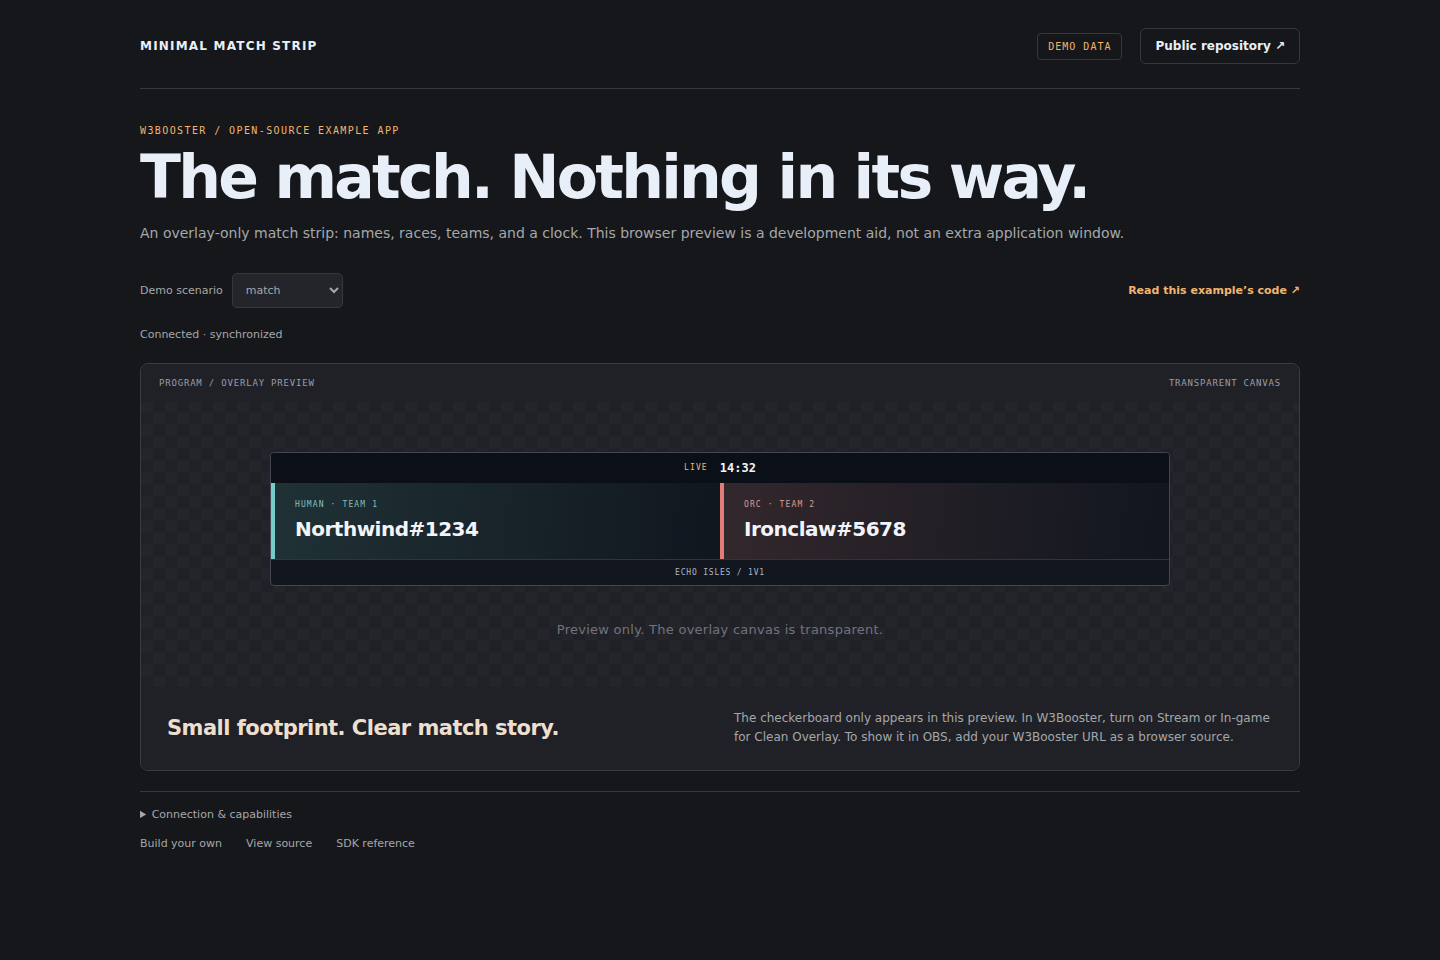
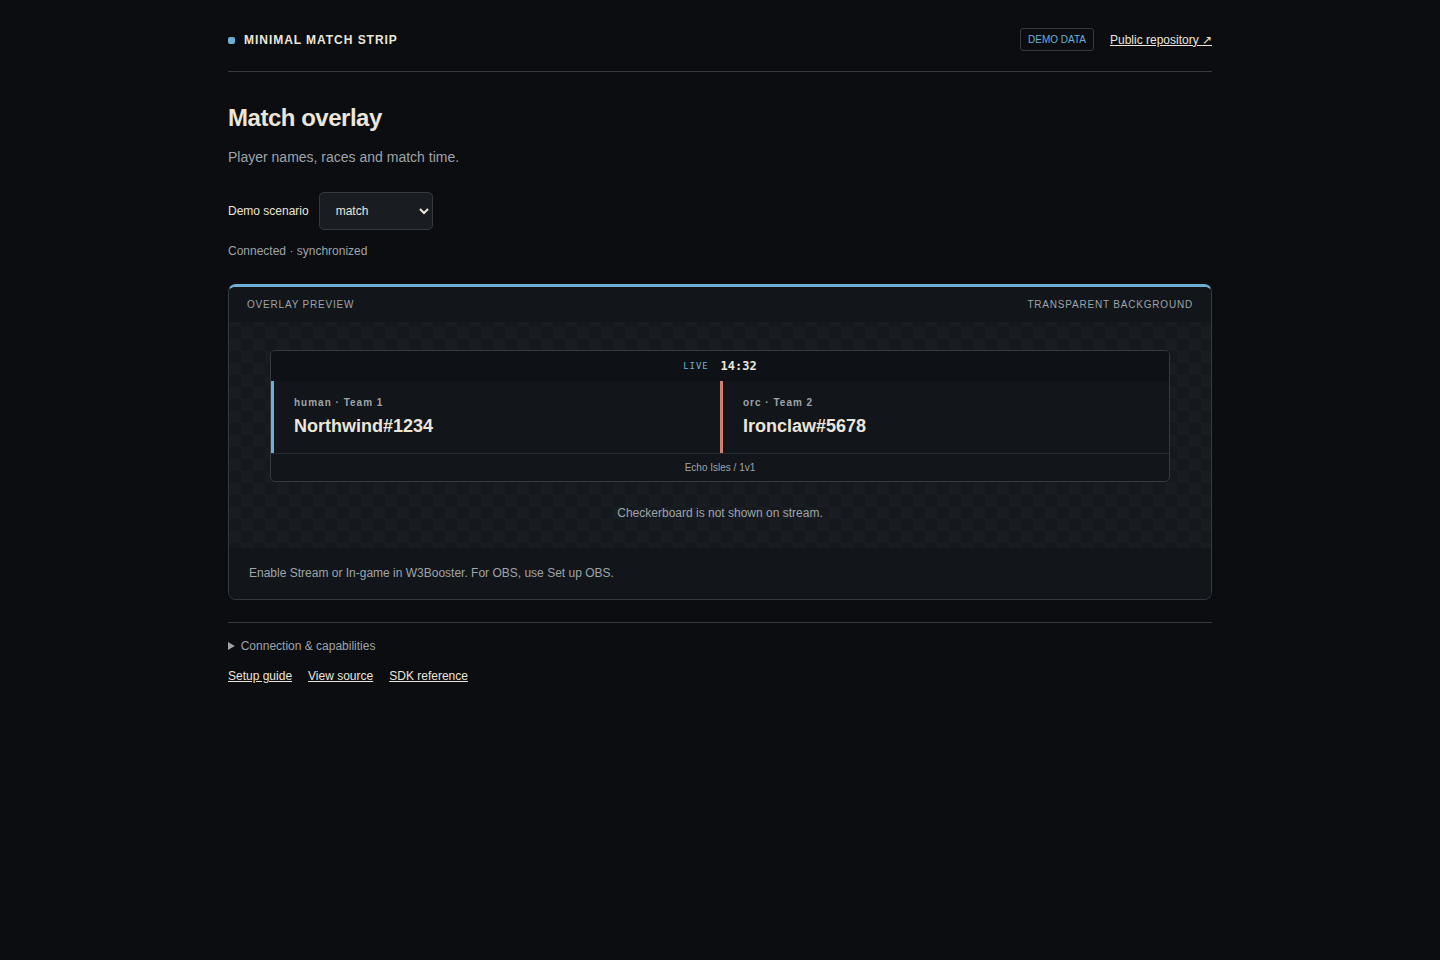
Use compact W3Booster styling and concise overlay preview

diff --git a/src/style.css b/src/style.css
@@ -1,34 +1,18 @@
-:root { color-scheme: dark; font-family: Inter, ui-sans-serif, system-ui, sans-serif; color: #e9eff8; background: #0b111c; font-synthesis: none; }
-:root.overlay-root { color-scheme:normal; }
-[hidden] { display:none!important; }
-.overlay[data-synchronized="false"] .content { visibility:hidden; }
-* { box-sizing: border-box; } body { --accent:#76cced; --muted:#9aaabd; --line:#2a3a50; --panel:#131e2e; margin:0; min-height:100vh; background:#0b111c; }
-button,input,select { font:inherit; } a { color:inherit; text-decoration:none; } a:hover { text-decoration:underline; } button:disabled { opacity:.45; cursor:not-allowed; }
-.shell { max-width:1240px; margin:auto; padding:28px 40px; }
-header { display:flex; align-items:center; justify-content:space-between; gap:20px; padding-bottom:24px; border-bottom:1px solid var(--line); }
-.brand { font-size:12px; font-weight:800; letter-spacing:.1em; } .header-actions { display:flex; align-items:center; gap:18px; }
-.badge { font:10px ui-monospace,monospace; letter-spacing:.1em; padding:7px 10px; color:var(--accent); border:1px solid var(--line); border-radius:4px; }
-.repository-link { font-size:12px; font-weight:650; padding:10px 14px; border:1px solid var(--line); border-radius:6px; }
-.intro { padding:36px 0 10px; } h1,h2,h3,p { margin-top:0; } h1 { margin:10px 0 14px; font-size:clamp(32px,4.7vw,60px); line-height:1.04; letter-spacing:-.045em; font-weight:750; } h2 { font-size:25px; letter-spacing:-.025em; } h3 { overflow-wrap:anywhere; }
-p { color:var(--muted); line-height:1.65; font-size:14px; } .eyebrow { font:10px ui-monospace,monospace; letter-spacing:.14em; color:var(--accent); text-transform:uppercase; }
-nav { display:flex; gap:8px; flex-wrap:wrap; margin:14px 0; } nav a,button { border:1px solid var(--line); background:var(--panel); border-radius:5px; padding:10px 14px; color:inherit; cursor:pointer; font-size:12px; } nav a[aria-current] { border-color:var(--accent); color:var(--accent); }
-button:hover:enabled { border-color:var(--accent); } input,select { background:var(--panel); color:inherit; border:1px solid var(--line); border-radius:5px; padding:9px; }
-.controls { display:flex; flex-wrap:wrap; gap:14px; align-items:center; padding:4px 0 8px; font-size:11px; color:var(--muted); } .controls label { display:flex; align-items:center; gap:9px; } .source-link { margin-left:auto; color:var(--accent); font-weight:650; }
-.notice { font-size:11px; margin:10px 0; } .notice:empty { display:none; } .content { min-height:220px; margin-top:18px; } .diagnostics { color:var(--muted); font-size:11px; padding:16px 0; margin-top:20px; border-top:1px solid var(--line); } summary { cursor:pointer; }
-pre { white-space:pre-wrap; overflow-wrap:anywhere; font:12px/1.7 ui-monospace,monospace; } footer { display:flex; gap:24px; flex-wrap:wrap; font-size:11px; color:var(--muted); }
-:focus-visible { outline:3px solid var(--accent); outline-offset:4px; }
-
-/* Clean Overlay: a broadcast strip on a clearly marked transparency canvas. */
-body[data-theme=broadcast] { --accent:#f2b56e; --muted:#a5a7aa; --line:#37383d; --panel:#24252a; background:#16171b; }
-.broadcast-studio { border:1px solid #3b3c43; border-radius:8px; overflow:hidden; } .studio-bar { display:flex; justify-content:space-between; gap:12px; padding:14px 18px; font:9px ui-monospace,monospace; letter-spacing:.09em; color:#9b9ca6; background:#202127; }
-.studio-stage { padding:50px 35px; min-height:260px; display:flex; flex-direction:column; align-items:center; justify-content:center; gap:36px; background:repeating-conic-gradient(#24252a 0 25%,#202126 0 50%) 0/24px 24px; } .stage-caption { color:#71737e; font-size:13px; letter-spacing:.02em; }
-.broadcast-strip { width:100%; max-width:900px; color:#f2f4f9; background:#10151fee; border:1px solid #444653; border-radius:4px; overflow:hidden; position:relative; padding-top:29px; }
-.broadcast-clock { position:absolute; top:0; left:0; right:0; display:flex; align-items:center; justify-content:center; gap:12px; background:#0b0f17; padding:8px; font:12px ui-monospace,monospace; } .broadcast-live { color:#efb876; font-size:8px; letter-spacing:.14em; }
-.broadcast-players { display:grid; grid-template-columns:repeat(auto-fit,minmax(180px,1fr)); } .broadcast-player { padding:18px 20px; border-left:4px solid #73cec9; background:linear-gradient(95deg,#29444599,transparent); display:flex; flex-direction:column; gap:8px; } .broadcast-player.side-1 { border-color:#e17c77; background:linear-gradient(95deg,#49333599,transparent); } .broadcast-player .eyebrow { color:#87bdbc; font-size:8px; } .broadcast-player.side-1 .eyebrow { color:#d49e9a; } .broadcast-player strong { font-size:20px; letter-spacing:-.025em; overflow-wrap:anywhere; }
-.broadcast-map { text-align:center; color:#adb5c3; border-top:1px solid #2d3542; padding:8px; font:8px ui-monospace,monospace; letter-spacing:.1em; text-transform:uppercase; }
-.studio-info { padding:22px 26px; background:#202127; display:grid; grid-template-columns:1fr 1fr; align-items:center; gap:28px; } .studio-info h2 { font-size:21px; margin:0; color:#eddfce; } .studio-info p { margin:0; font-size:12px; }
-html.overlay-root,body.overlay { background:transparent; min-height:0; } .overlay .shell { max-width:1000px; padding:12px; } .overlay header,.overlay .intro,.overlay nav,.overlay .controls,.overlay .diagnostics,.overlay footer,.overlay > .notice,.overlay .shell > .notice { display:none; } .overlay .content { margin:0; min-height:0; }
-@media (max-width:680px) {
-  .shell { padding:20px 16px; } header { align-items:flex-start; gap:12px; } .header-actions { gap:8px; flex-wrap:wrap; justify-content:flex-end; } .brand { max-width:140px; font-size:10px; line-height:1.5; } .repository-link { font-size:10px; padding:8px; }
-  .intro { padding-top:28px; } .source-link { margin-left:0; } .arena,.resource-grid,.settings-workbench { grid-template-columns:1fr; } .settings-preview-panel { border-left:0; border-top:1px solid #4c3864; } .settings-panel,.settings-preview-panel { padding:23px; } .economy-heading { align-items:flex-start; flex-direction:column; } .desk-topline,.desk-bottomline { padding:12px; gap:8px; flex-wrap:wrap; } .studio-stage { padding:30px 16px; } .studio-info { grid-template-columns:1fr; gap:12px; } .broadcast-player strong { font-size:18px; } .studio-bar { flex-wrap:wrap; }
-}
+body { --accent: #6fafd4; }
+.broadcast-studio { border: 1px solid var(--border); border-top: 3px solid var(--accent); border-radius: 8px; overflow: hidden; }
+.studio-bar { display: flex; justify-content: space-between; flex-wrap: wrap; gap: 12px; padding: 12px 18px; font-size: 10px; letter-spacing: .08em; color: var(--muted); background: var(--surface); }
+.studio-stage { padding: 28px; min-height: 220px; display: flex; flex-direction: column; align-items: center; justify-content: center; gap: 24px; background: repeating-conic-gradient(#191d22 0 25%,#15181c 0 50%) 0/24px 24px; }
+.stage-caption { color: var(--muted); font-size: 12px; }
+.broadcast-strip { width: 100%; max-width: 900px; color: var(--text); background: #121519f2; border: 1px solid var(--border); border-radius: 5px; overflow: hidden; position: relative; padding-top: 30px; }
+.broadcast-clock { position: absolute; top: 0; left: 0; right: 0; display: flex; justify-content: center; align-items: center; gap: 12px; background: #0e1115; padding: 8px; font: 12px ui-monospace,monospace; }
+.broadcast-live { color: var(--accent); font-size: 9px; letter-spacing: .1em; }
+.broadcast-players { display: grid; grid-template-columns: repeat(auto-fit,minmax(180px,1fr)); }
+.broadcast-player { padding: 16px 20px; border-left: 3px solid #6fafd4; display: flex; flex-direction: column; gap: 8px; }
+.broadcast-player.side-1 { border-color: #cf8073; }
+.broadcast-player .eyebrow { color: var(--muted); font-size: 10px; }
+.broadcast-player strong { font-size: 18px; overflow-wrap: anywhere; }
+.broadcast-map { text-align: center; color: var(--muted); border-top: 1px solid #272c32; padding: 8px; font-size: 10px; }
+.studio-info { padding: 16px 20px; background: var(--surface); }
+.studio-info p { margin: 0; font-size: 12px; }
+.overlay .shell { max-width: 1000px; }
+@media (max-width: 600px) { .studio-stage { padding: 18px 12px; } }

diff --git a/src/main.ts b/src/main.ts
@@ -1,3 +1,4 @@
+import './shell.css';
 import './style.css';
 import { classifyW3BoosterError } from '@w3booster/sdk';
 import { w3boosterApp } from './w3booster.generated';
@@ -9,7 +10,7 @@ document.body.dataset.application = w3boosterApp.clientId;
 // One repository, one app.
 const view = query.get('view') || 'application';
 const theme = 'broadcast';
-const presentation = { brand: 'MINIMAL MATCH STRIP', title: 'The match. Nothing in its way.', description: 'An overlay-only match strip: names, races, teams, and a clock. This browser preview is a development aid, not an extra application window.' };
+const presentation = { brand: 'MINIMAL MATCH STRIP', title: 'Match overlay', description: 'Player names, races and match time.' };
 document.body.dataset.theme = theme;
 document.title = presentation.brand + ' · W3Booster Examples';
 // Direct visits start offline; registered W3Booster URLs explicitly select demo=0.
@@ -26,7 +27,7 @@ const repository = element('a', 'Public repository ↗', 'repository-link'); rep
 const badge = element('span', demo ? 'DEMO DATA' : 'LIVE CONNECTION', 'badge'); headerActions.append(badge, repository); header.append(headerActions);
 const intro = element('div', '', 'intro');
 const appTitle = element('h1', presentation.title);
-intro.append(element('p', 'W3BOOSTER / OPEN-SOURCE EXAMPLE APP', 'eyebrow'), appTitle);
+intro.append(appTitle);
 intro.append(element('p', presentation.description));
 const status = element('p', 'Starting…', 'notice'); status.setAttribute('role', 'status');
 const content = element('div', '', 'content');
@@ -44,10 +45,9 @@ if (demo) {
 }
 const feedback = element('p', '', 'notice'); feedback.setAttribute('role', 'status');
 const footer = element('footer');
-for (const [text, href] of [['Build your own', 'https://website.w3booster.com/developer/first-app/'], ['View source', 'https://github.com/W3Booster/app-example-clean-overlay'], ['SDK reference', 'https://website.w3booster.com/developer/api/']]) {
+for (const [text, href] of [['Setup guide', 'https://website.w3booster.com/developer/first-app/'], ['View source', 'https://github.com/W3Booster/app-example-clean-overlay'], ['SDK reference', 'https://website.w3booster.com/developer/api/']]) {
   const link = element('a', text); link.href = href; footer.append(link);
 }
-const sourceLink = element('a', 'Read this example’s code ↗', 'source-link'); sourceLink.href = 'https://github.com/W3Booster/app-example-clean-overlay/blob/main/src/render.ts'; sourceLink.target = '_blank'; sourceLink.rel = 'noopener noreferrer'; controls.append(sourceLink);
 shell.append(header, intro);
 shell.append(controls, status, content, feedback, diagnostic, footer); root.replaceChildren(shell);
 const demoOptions = demo ? { state: (await import('./scenarios')).scenarioState(query.get('scenario') || 'match'), interval: query.get('capture') === '1' || ['no-match', 'finished'].includes(query.get('scenario') || '') ? 0 : 1000 } : undefined;

diff --git a/src/shell.css b/src/shell.css
@@ -1,0 +1,41 @@
+:root {
+  color-scheme: dark; font-family: Inter, "Segoe UI", sans-serif; font-size: 14px;
+  --bg: #0b0d10; --surface: #121519; --raised: #191d22; --border: #343a42;
+  --text: #ebe5da; --muted: #9da4aa; --accent: #85ad72;
+  color: var(--text); background: var(--bg);
+}
+* { box-sizing: border-box; }
+body { margin: 0; background: var(--bg); }
+a { color: inherit; }
+button, input, select, textarea { font: inherit; color: inherit; border: 1px solid var(--border); border-radius: 5px; background: var(--raised); padding: 10px 12px; }
+button { min-height: 38px; cursor: pointer; font-weight: 650; }
+button:hover:enabled { border-color: var(--accent); }
+button:disabled { opacity: .45; cursor: not-allowed; }
+h1, h2, h3 { margin-top: 0; font-weight: 650; letter-spacing: -.02em; overflow-wrap: anywhere; }
+h1 { font-size: 24px; margin: 8px 0; }
+h2 { font-size: 18px; }
+p { color: var(--muted); line-height: 1.6; }
+.shell { max-width: 1040px; margin: auto; padding: 28px; }
+header, .header-actions, .controls, footer { display: flex; gap: 16px; align-items: center; flex-wrap: wrap; }
+header { justify-content: space-between; border-bottom: 1px solid var(--border); padding-bottom: 20px; }
+.brand { font-size: 12px; font-weight: 800; letter-spacing: .08em; text-decoration: none; }
+.brand::before { content: ''; display: inline-block; width: 7px; height: 7px; margin-right: 9px; border-radius: 2px; background: var(--accent); }
+.header-actions, .controls, footer, .notice { font-size: 12px; }
+.badge { font-size: 10px; color: var(--accent); border: 1px solid var(--border); border-radius: 3px; padding: 5px 7px; }
+.intro { padding: 24px 0 10px; }
+.eyebrow { font-size: 10px; font-weight: 800; letter-spacing: .1em; color: var(--accent); }
+.controls label { display: flex; gap: 10px; align-items: center; }
+.content { margin: 22px 0; }
+.notice:empty, [hidden] { display: none !important; }
+.diagnostics { border-top: 1px solid var(--border); padding: 16px 0; font-size: 12px; color: var(--muted); }
+summary { cursor: pointer; }
+pre { white-space: pre-wrap; overflow-wrap: anywhere; }
+:focus-visible { outline: 2px solid var(--accent); outline-offset: 3px; }
+/* The transparent canvas contract is independent of the painted dark controls. */
+:root.overlay-root { color-scheme: normal; }
+html.overlay-root, body.overlay { background: transparent; min-height: 0; }
+.overlay .shell { max-width: none; padding: 12px; }
+.overlay header, .overlay .intro, .overlay .controls, .overlay .diagnostics, .overlay footer, .overlay .shell > .notice { display: none; }
+.overlay .content { margin: 0; }
+.overlay[data-synchronized="false"] .content { visibility: hidden; }
+@media (max-width: 600px) { .shell { padding: 18px 14px; } .header-actions { gap: 10px; } select { max-width: 100%; } }

diff --git a/src/render.ts b/src/render.ts
@@ -21,10 +21,10 @@ export function broadcast(state: MatchState | null) {
 
 export function studio(state: MatchState | null) {
   const view = element('section', '', 'broadcast-studio');
-  const bar = element('div', '', 'studio-bar'); bar.append(element('span', 'PROGRAM / OVERLAY PREVIEW'), element('span', 'TRANSPARENT CANVAS'));
+  const bar = element('div', '', 'studio-bar'); bar.append(element('span', 'OVERLAY PREVIEW'), element('span', 'TRANSPARENT BACKGROUND'));
   const stage = element('div', '', 'studio-stage');
-  stage.append(broadcast(state), element('span', !state || state.match.status === 'none' ? 'Between matches, the overlay is hidden.' : 'Preview only. The overlay canvas is transparent.', 'stage-caption'));
+  stage.append(broadcast(state), element('span', !state || state.match.status === 'none' ? 'No match. Overlay hidden.' : 'Checkerboard is not shown on stream.', 'stage-caption'));
   const info = element('div', '', 'studio-info');
-  info.append(element('h2', 'Small footprint. Clear match story.'), element('p', 'The checkerboard only appears in this preview. In W3Booster, turn on Stream or In-game for Clean Overlay. To show it in OBS, add your W3Booster URL as a browser source.'));
+  info.append(element('p', 'Enable Stream or In-game in W3Booster. For OBS, use Set up OBS.'));
   view.append(bar, stage, info); return view;
 }

diff --git a/README.md b/README.md
@@ -1,6 +1,6 @@
 # Minimal Match Strip
 
-A focused W3Booster example by **W3Pad**. Show player names, races, teams, and the match clock with a small transparent strip. This is intentionally **overlay-only**: passive match information does not need a separate application window.
+A focused W3Booster example. Show player names, races, teams, and the match clock with a small transparent strip. This is intentionally **overlay-only**: passive match information does not need a separate application window.
 
 [Try the demo](https://w3booster.github.io/app-example-clean-overlay/) · [Developer docs](https://website.w3booster.com/developer/) · [All examples](https://website.w3booster.com/developer/examples/)
 
@@ -27,6 +27,8 @@ Open **http://localhost:5173/**. Expect **DEMO DATA** and **Connected · synchro
 4. Try finished: the clock is labeled FINAL rather than continuing to claim LIVE.
 
 There are no fake score controls, unused settings, hero/resource requests, or compact-window buttons. Disconnected or unsynchronized output is hidden. The checkerboard only appears in the browser preview.
+
+The interface uses W3Booster-style dark surfaces, compact controls and a distinct accent. `src/shell.css` contains the small, standalone shell; the feature stylesheet contains only this app’s layout. Headings describe the task, not a marketing message.
 
 ## Surfaces and minimum permissions
 
